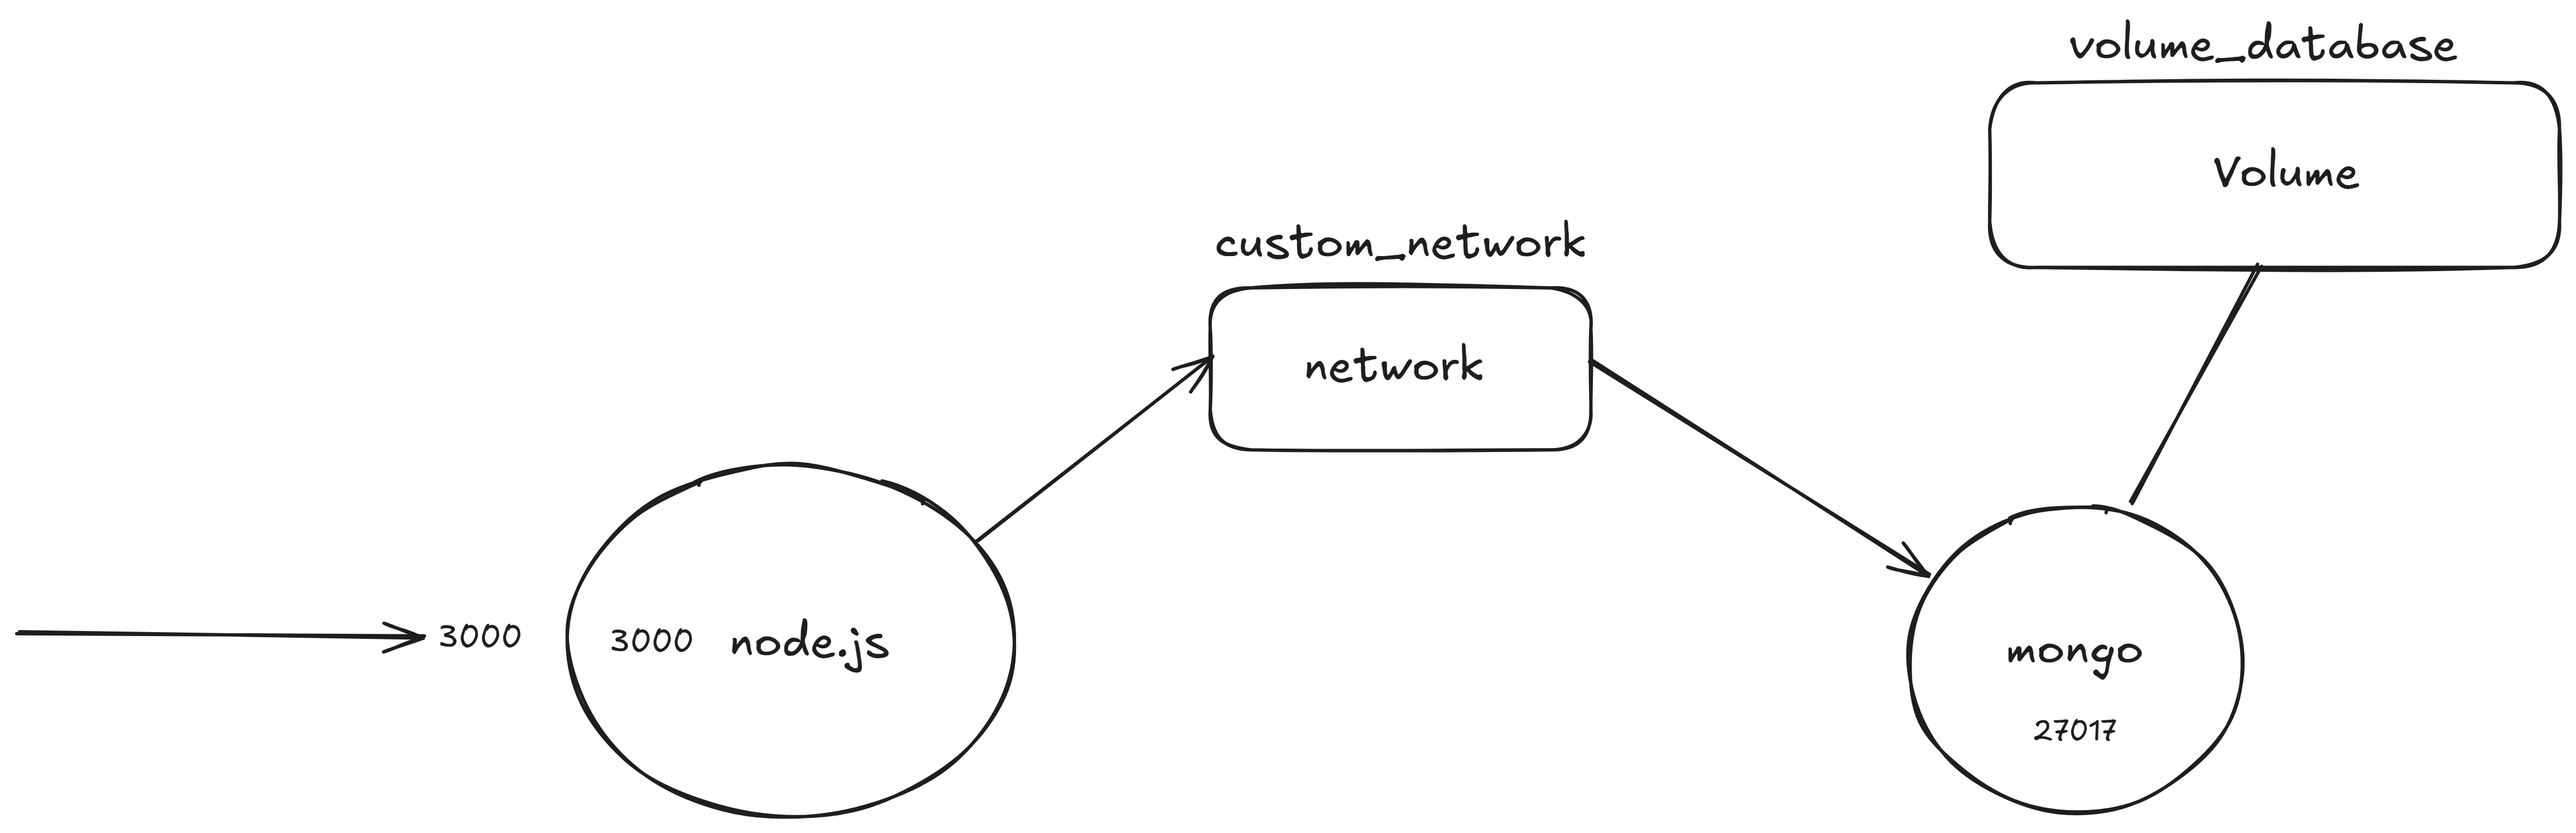
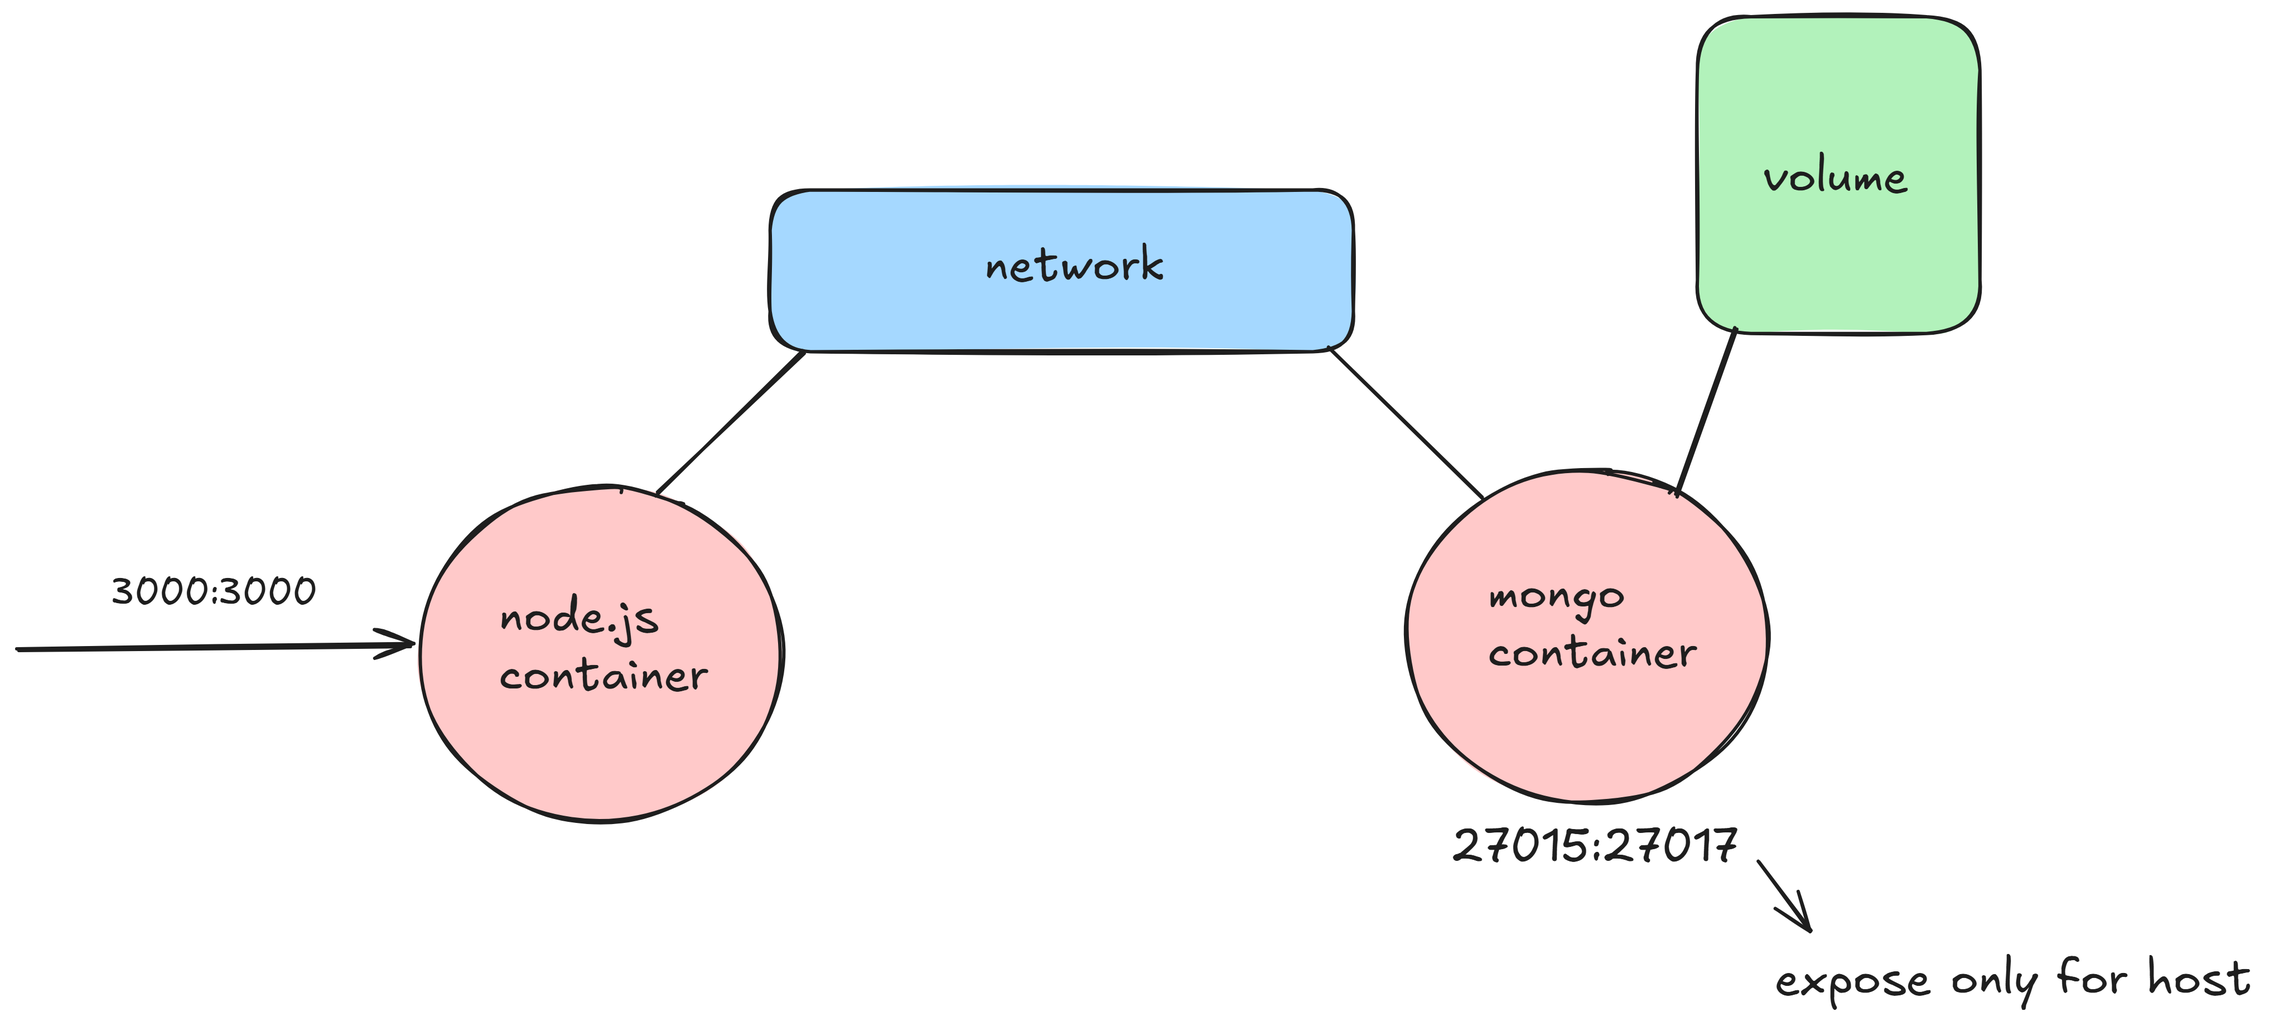
add docker-compose

diff --git a/src/db.ts b/src/db.ts
@@ -4,7 +4,7 @@ import mongoose from 'mongoose';
 // const mongoUrl : string = 'mongodb://localhost:27015/myDB';  without network(us this link when directly connecting to mongo container)
 
 // connecting from a continaer to another container
-const mongoUrl : string = 'mongodb://mongoamit:27017/myDB'; // use mongo internal port (27017)
+const mongoUrl : string = process.env.MONGO_URL || 'mongodb://mongoamit:27017/myDB'; // use mongo internal port (27017)
 
 mongoose.connect(mongoUrl)
     .then(() => console.log(`DB connected`))

diff --git a/src/index.ts b/src/index.ts
@@ -37,4 +37,4 @@ app.get('/users', async (req, res) => {
     }
 });
 
-app.listen(3000);
+app.listen(3000 , () => console.log(`Server is up at http://localhost:${3000}`));

diff --git a/README.md b/README.md
@@ -23,3 +23,10 @@ Run mongo-backend container (pull from DockerHub)
 ```bash
     docker run -d --name backend --network custom_network -p 3000:3000 darkxprime/mongo-backend 
 ```
+
+###OR
+
+Start services with docker compose (be in /mongo-backend folder)
+```bash
+    docker-compose up
+```
